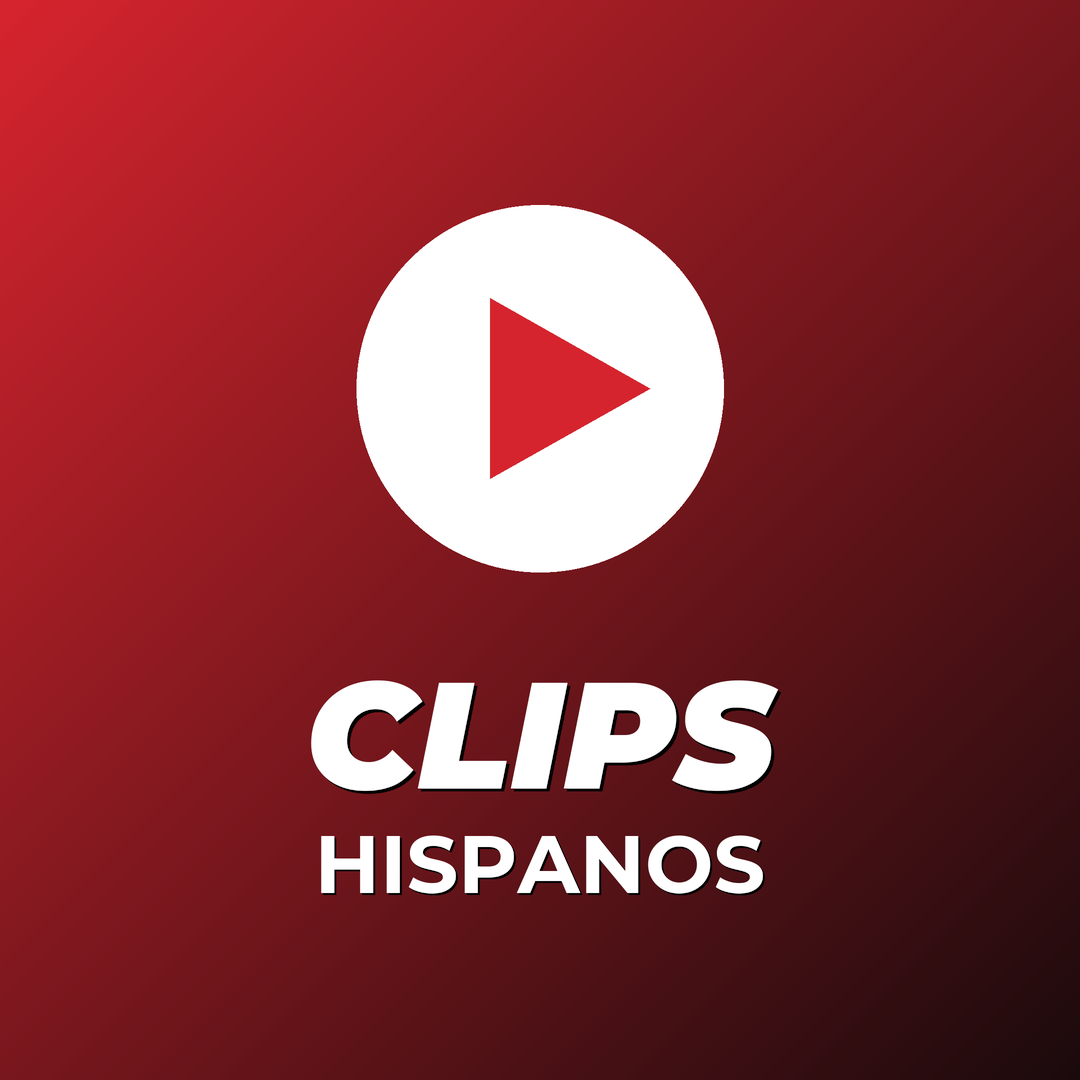
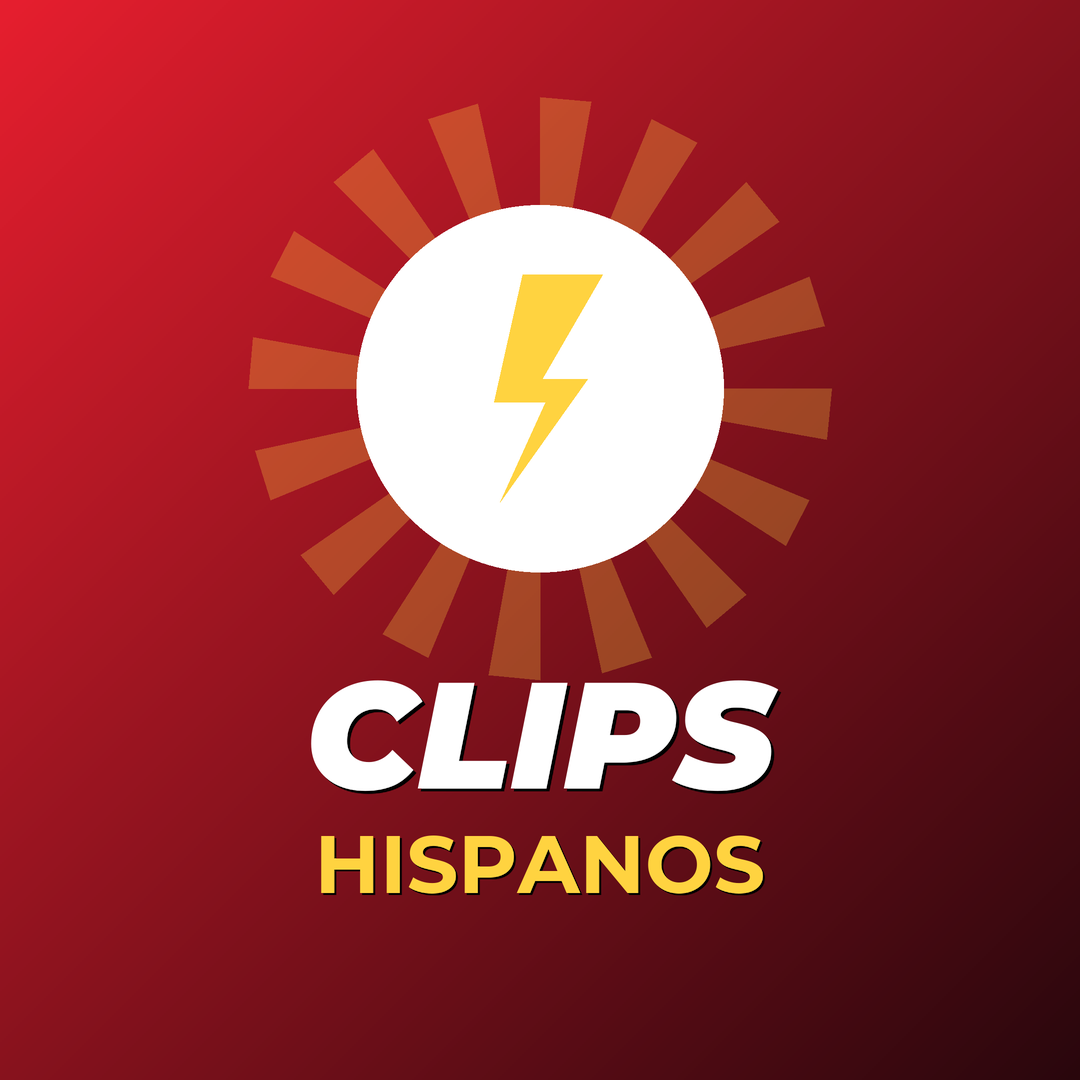
feat(branding): rayo en Clips Hispanos (no YouTube) + micro de estudio en IRL + watermark compacta + mas energia
- streamers_a: simbolo play->bolt (rojo+play calcaba el logo de YouTube) + acento amarillo.
- streamers_c: microfono de estudio nuevo (capsula alargada con grilla), el anterior parecia carita.
- watermark: de banda de texto 900x200 a badge circular compacto 480x480 (estilo soyelmalo).
- estallido de rayos detras del simbolo en los 3 (mas emocion). Regenerado para los 4 canales.

diff --git a/branding/make_assets.py b/branding/make_assets.py
@@ -20,8 +20,9 @@ BRANDS = {
         "handle": "@what.onearthisthat",
     },
     "streamers_a": {
+        # Rayo (no "play": rojo+play = calco del logo de YouTube) + acento amarillo = más energía.
         "big": "CLIPS", "name": "HISPANOS", "tag": "LOS MEJORES MOMENTOS",
-        "c1": (214, 36, 46), "c2": (26, 10, 12), "accent": (255, 255, 255), "symbol": "play",
+        "c1": (230, 30, 46), "c2": (40, 6, 12), "accent": (255, 211, 64), "symbol": "bolt",
         "handle": "@clipshispanos",
     },
     "streamers_b": {
@@ -84,15 +85,66 @@ def _symbol(d: ImageDraw.ImageDraw, kind: str, cx, cy, r, color, font_big):
         s = r * 0.6
         d.polygon([(cx - s * 0.45, cy - s * 0.82), (cx - s * 0.45, cy + s * 0.82),
                    (cx + s * 1.0, cy)], fill=color)
-    elif kind == "mic":                                  # micrófono simple
-        mw, mh = r * 0.5, r * 0.78
-        d.rounded_rectangle([cx - mw / 2, cy - mh, cx + mw / 2, cy + mh * 0.25],
-                            radius=mw / 2, fill=color)
-        d.arc([cx - mw, cy - mh * 0.2, cx + mw, cy + mh * 0.9], 20, 160, fill=color, width=max(5, r // 16))
-        d.line([(cx, cy + mh * 0.6), (cx, cy + mh)], fill=color, width=max(5, r // 16))
-        d.line([(cx - mw * 0.7, cy + mh), (cx + mw * 0.7, cy + mh)], fill=color, width=max(5, r // 16))
+    elif kind == "mic":                                  # micrófono de estudio (charla/IRL)
+        _mic(d, cx, cy, r * 0.72, color)
+    elif kind == "bolt":                                 # rayo (gameplay hype, no es play=YT)
+        _bolt(d, cx, cy, r * 0.62, color)
     else:                                                # "?!" (whatonearth)
         _text(d, (cx, cy), "?!", font_big, color, shadow=False)
+
+
+def _bolt(d, cx, cy, s, color):
+    """Rayo (lightning) estilizado centrado en (cx,cy), alto ~2s. Energía > triángulo de play."""
+    pts = [(cx - 0.15 * s, cy - 1.0 * s), (cx + 0.55 * s, cy - 1.0 * s),
+           (cx + 0.02 * s, cy - 0.08 * s), (cx + 0.42 * s, cy - 0.08 * s),
+           (cx - 0.35 * s, cy + 1.0 * s), (cx + 0.05 * s, cy + 0.12 * s),
+           (cx - 0.40 * s, cy + 0.12 * s)]
+    d.polygon(pts, fill=color)
+
+
+def _mic(d, cx, cy, s, color):
+    """Micrófono de estudio LIMPIO: cápsula vertical alargada (con grilla) + horquilla en U + pie.
+    Cápsula más alta que ancha para que lea como micrófono y no como una pelota/carita."""
+    lw = max(5, int(s * 0.14))
+    cw = s * 0.40                                        # media-anchura de la cápsula (angosta)
+    cap_top, cap_bot = cy - s * 1.05, cy + s * 0.18
+    d.rounded_rectangle([cx - cw, cap_top, cx + cw, cap_bot], radius=cw, fill=color)
+    # grilla: 3 líneas finas del color de fondo, para que lea "micrófono"
+    # (se dibujan con el color del borde = transparente-ish via el fondo; usamos líneas delgadas)
+    for frac in (0.30, 0.50, 0.70):
+        gy = cap_top + (cap_bot - cap_top) * frac
+        d.line([(cx - cw * 0.7, gy), (cx + cw * 0.7, gy)], fill=(0, 0, 0, 70), width=max(2, int(s * 0.05)))
+    yr = s * 0.72                                        # horquilla en U abrazando la base de la cápsula
+    d.arc([cx - yr, cy - s * 0.30, cx + yr, cy + s * 0.80], 20, 160, fill=color, width=lw)
+    d.line([(cx, cy + s * 0.62), (cx, cy + s * 1.12)], fill=color, width=lw)   # pie (vástago)
+    d.line([(cx - s * 0.55, cy + s * 1.12), (cx + s * 0.55, cy + s * 1.12)], fill=color, width=lw)  # base
+
+
+def _burst(img, cx, cy, r, color, n=16):
+    """Estallido de rayos radiales (pinwheel) DETRÁS del símbolo: suma emoción/energía.
+    Se compone con alpha sobre la imagen RGBA."""
+    import math
+    layer = Image.new("RGBA", img.size, (0, 0, 0, 0))
+    ld = ImageDraw.Draw(layer)
+    for i in range(n):
+        a0 = i * (2 * math.pi / n)
+        a1 = (i + 0.45) * (2 * math.pi / n)
+        ld.polygon([(cx, cy), (cx + r * math.cos(a0), cy + r * math.sin(a0)),
+                    (cx + r * math.cos(a1), cy + r * math.sin(a1))], fill=color)
+    img.alpha_composite(layer)
+
+
+def _glyph(d, kind, cx, cy, s, color):
+    """Dibuja SOLO el símbolo del canal (sin círculo de fondo), para la watermark-badge."""
+    if kind == "play":
+        d.polygon([(cx - s * 0.42, cy - s * 0.78), (cx - s * 0.42, cy + s * 0.78),
+                   (cx + s * 0.95, cy)], fill=color)
+    elif kind == "mic":
+        _mic(d, cx, cy, s * 0.82, color)
+    elif kind == "bolt":
+        _bolt(d, cx, cy, s * 0.82, color)
+    else:                                                # "?!" (whatonearth)
+        _text(d, (cx, cy), "?!", _font("Montserrat-BlackItalic.ttf", int(s * 1.4)), color, shadow=False)
 
 
 def _magnifier(d, cx, cy, r, color, lw):
@@ -146,6 +198,9 @@ def make_pfp(key: str, b: dict) -> Path:
     d = ImageDraw.Draw(img)
     cx = cy = w // 2
     white = (255, 255, 255, 255)
+    if b["symbol"] != "q":                               # estallido de energía detrás del símbolo
+        _burst(img, cx, cy, int(w * 0.36), (*b["accent"][:3], 70))
+        d = ImageDraw.Draw(img)
     if b["symbol"] == "q":                               # whatonearth -> globo + signos "?"
         gr = int(w * 0.235)
         globe, gc = _make_globe(gr)
@@ -161,14 +216,10 @@ def make_pfp(key: str, b: dict) -> Path:
         s = int(w * 0.2)
         d.polygon([(cx - s * 0.45, cy - s * 0.82), (cx - s * 0.45, cy + s * 0.82),
                    (cx + s * 1.0, cy)], fill=white)
-    elif b["symbol"] == "mic":                           # streamers IRL
-        mw, mh = int(w * 0.1), int(w * 0.16)
-        d.rounded_rectangle([cx - mw, cy - mh, cx + mw, cy + mh * 0.3], radius=mw, fill=white)
-        d.arc([cx - mw * 1.9, cy - mh * 0.3, cx + mw * 1.9, cy + mh * 1.5], 20, 160,
-              fill=white, width=int(w * 0.028))
-        d.line([(cx, cy + mh * 1.15), (cx, cy + mh * 1.6)], fill=white, width=int(w * 0.028))
-        d.line([(cx - mw * 1.4, cy + mh * 1.6), (cx + mw * 1.4, cy + mh * 1.6)],
-               fill=white, width=int(w * 0.028))
+    elif b["symbol"] == "mic":                           # streamers IRL (micrófono de estudio)
+        _mic(d, cx, cy, int(w * 0.17), white)
+    elif b["symbol"] == "bolt":                          # streamers gameplay (hype, no YT)
+        _bolt(d, cx, cy, int(w * 0.24), b["accent"] if b["accent"] != (255, 255, 255) else white)
     img = img.resize((1080, 1080), Image.LANCZOS)
     p = OUT / key / "pfp.png"
     p.parent.mkdir(parents=True, exist_ok=True)
@@ -180,6 +231,9 @@ def make_icon(key: str, b: dict) -> Path:
     w = 1080 * S
     img = _vignette(_gradient(w, w, b["c1"], b["c2"]), 0.5).convert("RGBA")
     d = ImageDraw.Draw(img)
+    if b["symbol"] != "q":                               # estallido de energía detrás del símbolo
+        _burst(img, w // 2, int(w * 0.36), int(w * 0.27), (*b["accent"][:3], 70))
+        d = ImageDraw.Draw(img)
     # color del símbolo: el accent si no es blanco (invisible sobre el círculo), si no el de marca
     sym = b["accent"] if b["accent"] != (255, 255, 255) else b["c1"]
     _symbol(d, b["symbol"], w // 2, int(w * 0.36), int(w * 0.17), sym, _font("Montserrat-BlackItalic.ttf", int(w * 0.16)))
@@ -199,13 +253,21 @@ def make_icon(key: str, b: dict) -> Path:
 
 
 def make_watermark(key: str, b: dict) -> Path:
-    """Watermark transparente (handle) para overlay en los videos. Blanco semi + sombra."""
-    w, h = 900 * S, 200 * S
-    img = Image.new("RGBA", (w, h), (0, 0, 0, 0))
+    """Watermark COMPACTA = badge circular con el símbolo del canal (estilo de la watermark
+    'anterior' de soyelmalo), NO una banda larga de texto. Transparente fuera del círculo,
+    con estallido de energía y aro blanco. Cuadrada (1:1) para que no salga alargada."""
+    w = 480 * S
+    base = _vignette(_gradient(w, w, b["c1"], b["c2"]), 0.3).convert("RGBA")
+    cx = cy = w // 2
+    r = int(w * 0.47)
+    mask = Image.new("L", (w, w), 0)
+    ImageDraw.Draw(mask).ellipse([cx - r, cy - r, cx + r, cy + r], fill=255)
+    img = Image.composite(base, Image.new("RGBA", (w, w), (0, 0, 0, 0)), mask)
+    _burst(img, cx, cy, int(r * 0.9), (255, 255, 255, 60))     # energía
     d = ImageDraw.Draw(img)
-    _text(d, (w // 2, h // 2), b["handle"], _font("Montserrat-BlackItalic.ttf", int(h * 0.5)),
-          (255, 255, 255, 230), sw=5)
-    img = img.resize((900, 200), Image.LANCZOS)
+    d.ellipse([cx - r, cy - r, cx + r, cy + r], outline=(255, 255, 255, 235), width=int(w * 0.03))
+    _glyph(d, b["symbol"], cx, cy, int(r * 0.52), (255, 255, 255, 255))
+    img = img.resize((480, 480), Image.LANCZOS)
     p = OUT / key / "watermark.png"
     p.parent.mkdir(parents=True, exist_ok=True)
     img.save(p)
